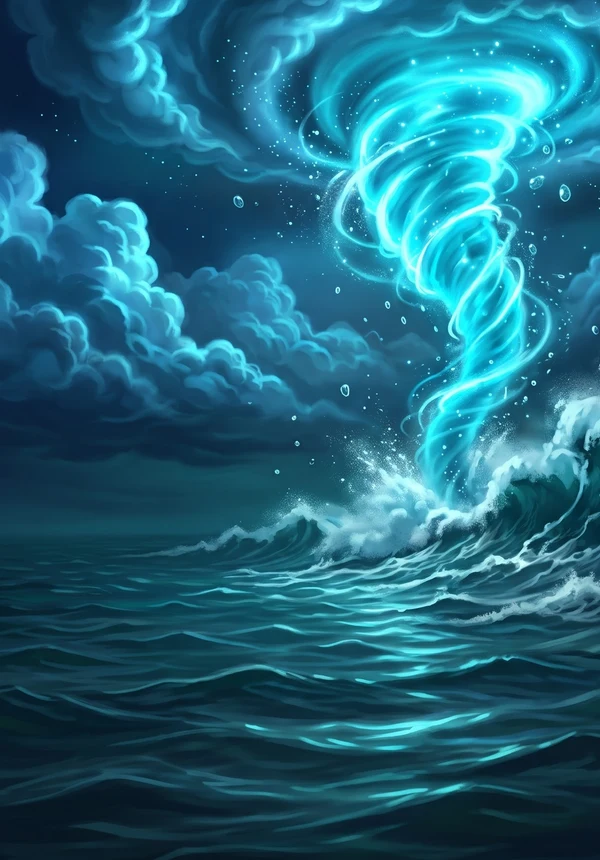
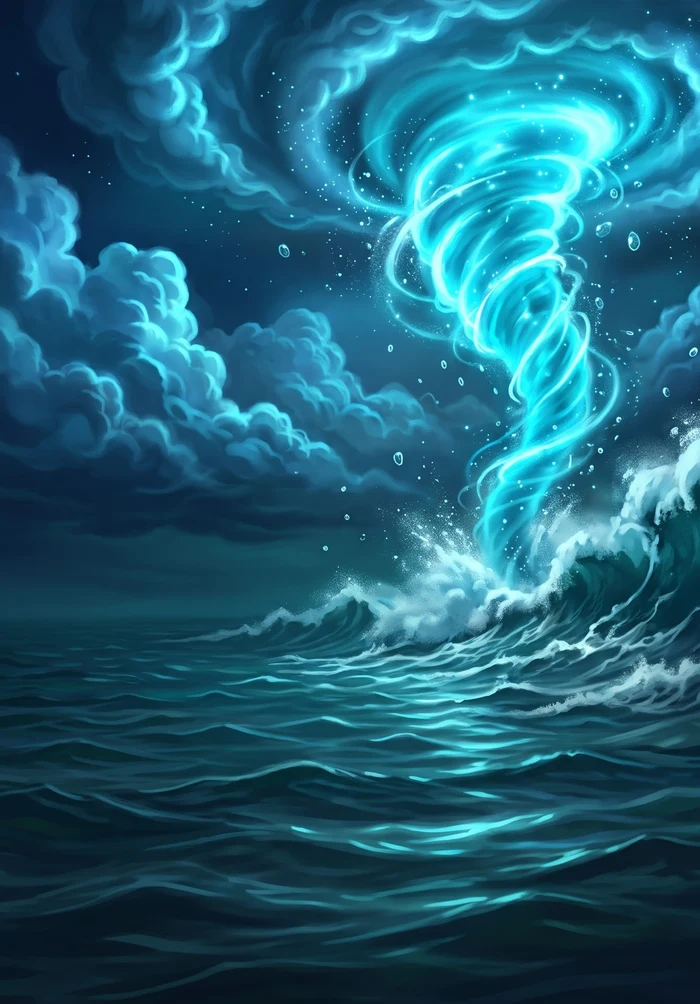
rebuild Mare with thin photoreal frame, ornaments cut to the outside, art up to the frame
Claude-Session: https://claude.ai/code/session_01N8XLJoyFiwvoZXFrULaieo

diff --git a/components/cancha-card.tsx b/components/cancha-card.tsx
@@ -79,6 +79,11 @@ export type Roupa = {
   innerBolts?: string;
   /** Os raios (`innerBolts` e `overflowBolts`) ficam parados, sem animação. */
   still?: boolean;
+  /**
+   * A arte do fundo cobre a caixa toda menos esta faixa fina (em % da carta), por baixo de uma moldura fina: o conteúdo continua na janela
+   * padrão (`window`), mas a arte chega até a moldura (a janela fica sem fundo).
+   */
+  artInset?: { x: number; y: number; radius: number };
   /** Sobe e afasta das laterais os números das estatísticas (em cqw), para a moldura da arte não passar por cima deles. */
   statsInset?: { bottom: number; side: number };
   /** Gotas de água escorrendo pela carta, desenhadas em código (só `transform` e `opacity`); ficam por cima do conteúdo e por baixo da moldura. */
@@ -146,7 +151,7 @@ const ROUPAS = {
   voltagem: { background: "premium-voltagem", overflow: "premium-voltagem-vaza", overflowWidth: 1.25, innerBolts: "premium-voltagem-dentro", still: true, window: "ring", windowInset: { x: 7.68, y: 5.48 }, windowRadius: 4.94, artFrame: true, clean: true, trim: null, metal: ["#c9b84e", "#c9b84e", "#fff7b0"], accent: "#f5ee9c", light: "150 230 255", bar: "#03121c", muted: "#bfeeff", sparkles: false, neon: "#36d6ff" },
   // Maré (2026-11-05, teste do kit em camadas: fundo e borda feitos no Gemini com o gabarito 5:7, montados por `prototipos/montar-carta.cjs`):
   // tromba-d'água num mar de enchente e moldura de ouro com a "capa" de lâminas nos cantos de baixo. Janela padrão (`ring`, 64,5 px da caixa).
-  mare: { background: "premium-mare", overflow: "premium-mare-vaza", window: "ring", windowInset: { x: 7.68, y: 5.48 }, windowRadius: 4.94, artFrame: true, clean: true, trim: null, metal: ["#b8902f", "#b8902f", "#fff1c2"], accent: "#f3d27a", light: "120 230 255", bar: "#031018", muted: "#bfeeff", sparkles: false, neon: "#f3d27a" },
+  mare: { background: "premium-mare", overflow: "premium-mare-vaza", artInset: { x: 3.93, y: 2.81, radius: 4.8 }, window: "ring", windowInset: { x: 7.68, y: 5.48 }, windowRadius: 4.94, artFrame: true, clean: true, trim: null, metal: ["#b8902f", "#b8902f", "#fff1c2"], accent: "#f3d27a", light: "120 230 255", bar: "#031018", muted: "#bfeeff", sparkles: false, neon: "#f3d27a" },
   icone: { background: "premium-icone", clean: true, overflow: "premium-icone-vaza", overflowWidth: 774 / 714, artFrame: true, trim: null, metal: ["#c9a24e", "#c9a24e", "#fff4d6"], accent: "#e2c06e", light: "255 240 200", bar: "#1a140a", muted: "#f0dfb5", sparkles: false, neon: "#ffcf4d" },
   // Aurora (2026-11-04, GUARDADA: o dono gostou mas pediu para não aplicar ainda; não está em `CARD_SKINS`, então não aparece na Loja.
   // Para usar: entrada em `CARD_SKINS` (sugestão nível 14, 1600 CC), `case` em `skinRoupa` e `SKIN_CLASSES`): aurora boreal renderizada pixel a pixel em código (`prototipos/premium-aurora.cjs`), fio de ouro, respiro preto,
@@ -797,9 +802,16 @@ export function CanchaCard({ player, award, className, photoSizes, photoFrame = 
         isNeon ? TRIMMED_CARD : className,
       )}
     >
+      {roupa.artInset && (
+        <div
+          aria-hidden
+          className="absolute overflow-hidden bg-cover bg-center"
+          style={{ backgroundImage: `url(/cartas/fundos/${roupa.background}.webp)`, left: `${roupa.artInset.x}%`, right: `${roupa.artInset.x}%`, top: `${roupa.artInset.y}%`, bottom: `${roupa.artInset.y}%`, borderRadius: `${roupa.artInset.radius}cqw` }}
+        />
+      )}
       <div
         className={cn("absolute overflow-hidden bg-cover bg-center", roupa.window === "inner" ? INNER_WINDOW : roupa.window === "ring" ? RING_WINDOW : isNeon ? NEON_WINDOW : METAL_WINDOW)}
-        style={{ backgroundImage: `url(/cartas/fundos/${roupa.background}.webp)`, ...(roupa.window === "ring" ? { borderRadius: `${roupa.windowRadius ?? 8}cqw` } : null), ...(roupa.window === "ring" && roupa.windowInset ? { left: `${roupa.windowInset.x}%`, right: `${roupa.windowInset.x}%`, top: `${roupa.windowInset.y}%`, bottom: `${roupa.windowInset.y}%` } : null) }}
+        style={{ ...(roupa.artInset ? null : { backgroundImage: `url(/cartas/fundos/${roupa.background}.webp)` }), ...(roupa.window === "ring" ? { borderRadius: `${roupa.windowRadius ?? 8}cqw` } : null), ...(roupa.window === "ring" && roupa.windowInset ? { left: `${roupa.windowInset.x}%`, right: `${roupa.windowInset.x}%`, top: `${roupa.windowInset.y}%`, bottom: `${roupa.windowInset.y}%` } : null) }}
       >
         {roupa.drift && (
           // eslint-disable-next-line @next/next/no-img-element -- arte decorativa, sem otimizar
